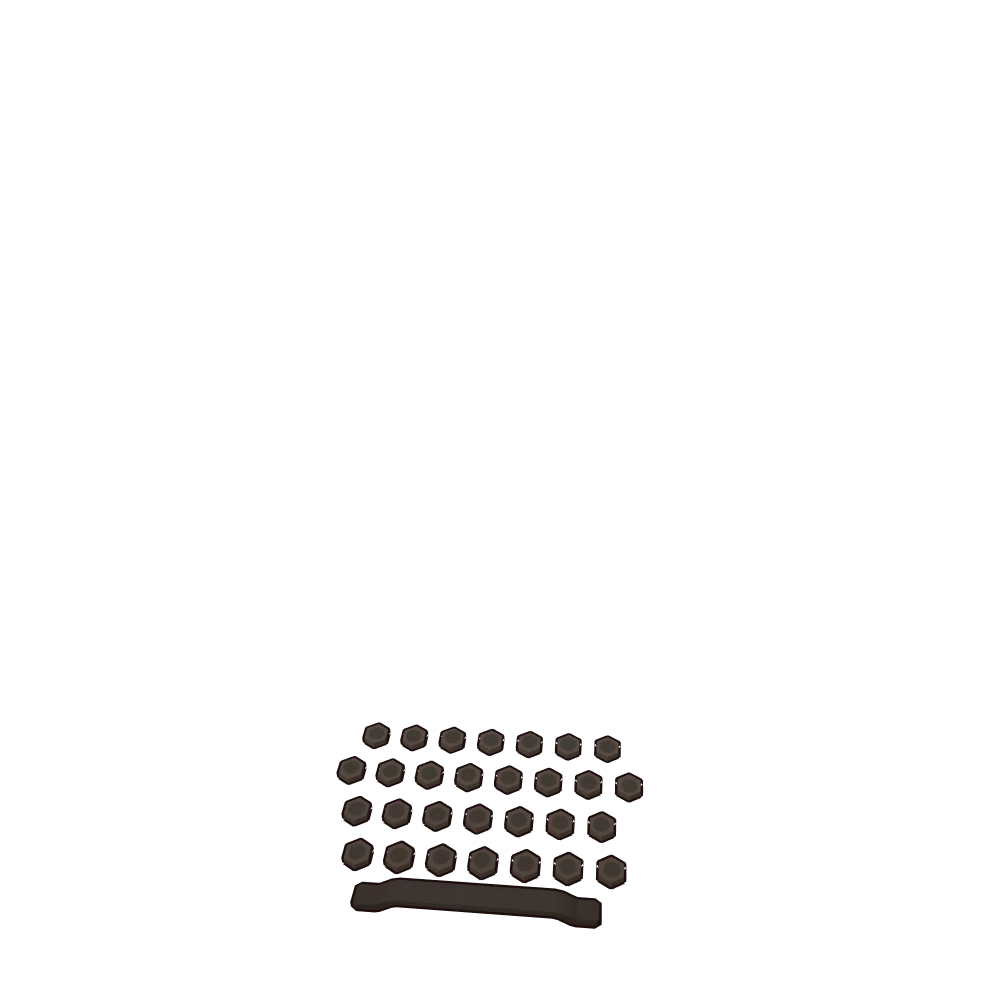
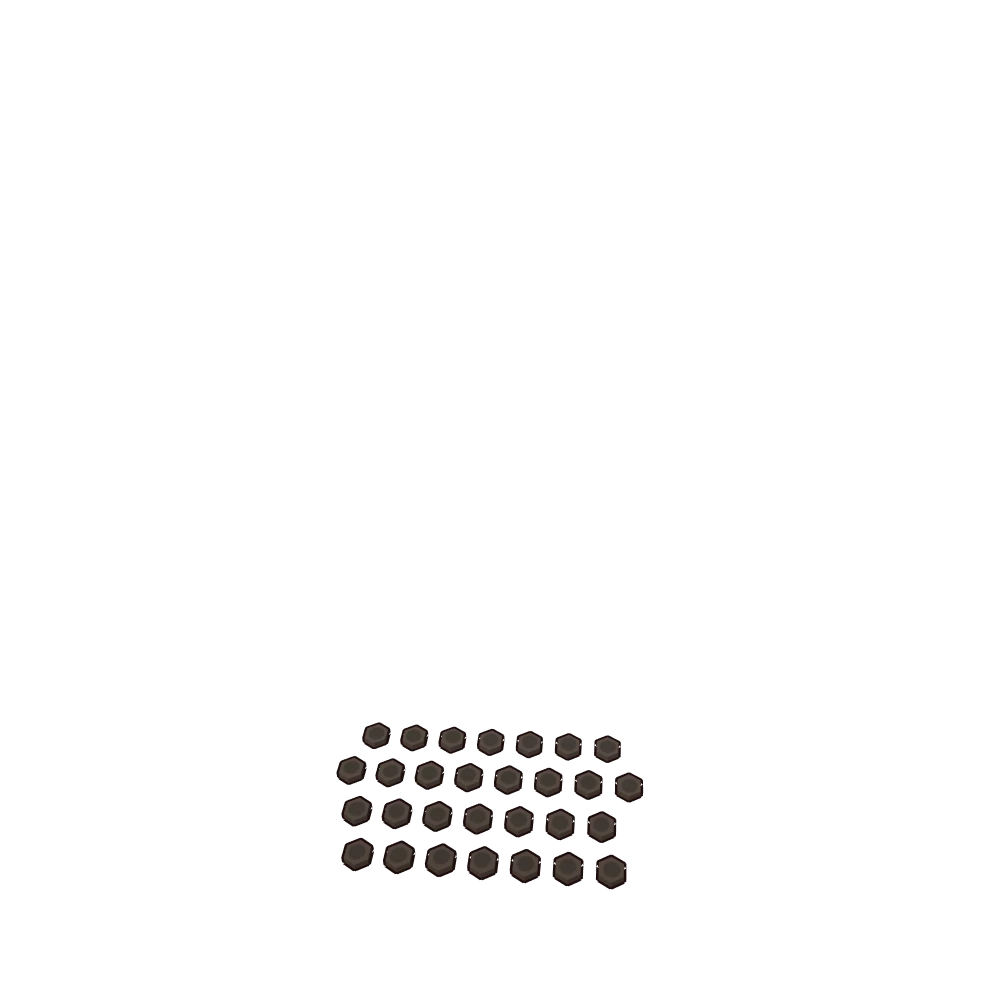
fix(viewer): the space bar no longer takes the caps over it down, and other news computer fixes
- The space bar is a layer of its own, drawn behind the caps. Its box
  takes in the bottoms of the caps over it, and in the one keys layer
  those went down with it.
- Only secret lines count as finds, six of them. A hero's name, help
  and what answers a click are not secrets, and are no longer counted.
- The small computer under the settings menu stays where it is while a
  search narrows the menu and shows its count.
- The book is under the tube's lines and static, as the rest of what the
  screen shows is, in the loader too.
- The count of finds stands on a patch of the screen's color, so it
  reads over an answer.

Changed region(s): [[0.341, 0.8815, 0.62, 0.9422]]

diff --git a/src/components/common/LoaderToy.tsx b/src/components/common/LoaderToy.tsx
@@ -4,10 +4,10 @@ import { Volume2, VolumeX, X } from 'lucide-react';
 import { getHeroChipIconPath } from '../../lib/lockerUtils';
 import type { ToySound } from '../../lib/loaderToySound';
 import { useAppStore } from '../../stores/appStore';
-import { CAP_CHARS, EGG, TOY_BLANK, TOY_FINDS, loaderToy, phraseListener, toyCap, toyChar, toyDemoLine, toyFind, toyFinds, toyLines, toyType, type ToyFind, type ToyScreen } from '../../lib/loaderToy';
+import { CAP_CHARS, EGG, TOY_BLANK, TOY_FINDS, loaderToy, phraseListener, toyCap, toyChar, toyDemoLine, toyFind, toyFinds, toyLines, toyType, type ToyScreen } from '../../lib/loaderToy';
 import { Modal } from './Modal';
 import { Book, Face, FanSpinner, Glyphs, LoaderScene, LoaderSteam, Typed } from './PreviewLoader';
-import { FAN, KEY_BOXES, LAYERS, PLANCHETTE, SCREEN, typingFor, type Typing } from './previewLoaderArt';
+import { FAN, KEY_BOXES, KEY_ORDER, LAYERS, PLANCHETTE, SCREEN, typingFor, type Typing } from './previewLoaderArt';
 import { IconButton } from './ui';
 
 // The news computer as a toy: the loader's scene (PreviewLoader.tsx) in a window of its own, where the
@@ -16,7 +16,7 @@ import { IconButton } from './ui';
 // the app's logo opens it, and so does typing one of the computer's phrases anywhere (LoaderToyHost).
 // Nothing says so. What draws people in is the computer itself: a small one sits in Settings and opens
 // this one (NewsComputerDoor), it shows off its parts as it opens, types the lines anybody may know
-// when asked or left alone, and keeps count on its screen of what has been found.
+// when asked or left alone, and keeps count on its screen of how many of its secret lines have been found.
 // Styles are under `.loader-toy` in index.css; what the keys and lines mean is in lib/loaderToy.ts.
 
 /** Milliseconds a cap stays down at the least, so a quick tap still shows. */
@@ -132,11 +132,10 @@ function LoaderToy({ line }: { line: string }) {
     return () => clearTimeout(timer);
   }, [typing]);
 
-  // What has been found, kept between openings. The screen shows the count. A line's find is read off
-  // the answer it put up, as the answer shows; a part's is told by its click.
+  // Which of its secret lines have been found, kept between openings. The screen shows the count. A
+  // find is read off the answer its line put up, as the answer shows.
   const [found, setFound] = useState(() => toyFinds(localStorage.getItem(FOUND_KEY)));
   const [foundBefore] = useState(found.length);
-  const find = useCallback((what: ToyFind) => setFound((now) => now.includes(what) ? now : [...now, what]), []);
   const answered = [toyFind(answer), screen.rgb ? 'gamer' as const : null].find((what) => what && !found.includes(what));
   if (answered) setFound([...found, answered]);
   useEffect(() => { localStorage.setItem(FOUND_KEY, JSON.stringify(found)); }, [found]);
@@ -433,27 +432,28 @@ function LoaderToy({ line }: { line: string }) {
             </>
           )}>
           {puffs.map((puff) => <LoaderSteam key={puff} className="loader-toy__puff" onAnimationEnd={() => setPuffs((all) => all.filter((other) => other !== puff))} />)}
-          <div className="loader-toy__hit loader-toy__hit--round loader-toy__hit--fan" onPointerDown={() => { kickFan(); find('fan'); }}
+          <div className="loader-toy__hit loader-toy__hit--round loader-toy__hit--fan" onPointerDown={kickFan}
             style={{ left: percent(FAN.left - FAN.width * 0.6), top: percent(FAN.top - FAN.width * 0.6), width: percent(FAN.width * 1.2), aspectRatio: 1 }} />
           <div className="loader-toy__hit loader-toy__hit--glass" onPointerDown={() => {
-              if (answer?.kind === 'egg') {
-                setStrikes((count) => count + 1);
-                find('knock');
-              } else {
+              if (answer?.kind === 'egg') setStrikes((count) => count + 1);
+              else {
                 sound.current?.tap();
                 jolt();
-                find('glass');
               }
             }}
             style={{ left: percent(SCREEN.left - SCREEN.width / 2), top: percent(SCREEN.top - SCREEN.width / SCREEN.aspect / 2), width: percent(SCREEN.width), aspectRatio: SCREEN.aspect }} />
           <div className="loader-toy__hit loader-toy__hit--mug" style={{ left: '6.5%', top: '62%', width: '18%', height: '18%' }}
-            onPointerDown={() => { puff(); find('mug'); }} />
-          {KEY_BOXES.map(([left, top, width, height], cap) => (
-            <div key={cap} className="loader-toy__hit" style={{ left: percent(left), top: percent(top), width: percent(width), height: percent(height) }}
-              onPointerDown={() => { press('pointer', cap); type({ char: CAP_CHARS[cap] }); find('key'); }}
-              onPointerUp={() => release('pointer')} onPointerEnter={() => setHovered(cap)}
-              onPointerLeave={() => { release('pointer'); setHovered((now) => now === cap ? null : now); }} />
-          ))}
+            onPointerDown={puff} />
+          {/* In the keys' own order, so that a cap is over the part of the space bar's box it stands in. */}
+          {KEY_ORDER.map((cap) => {
+            const [left, top, width, height] = KEY_BOXES[cap];
+            return (
+              <div key={cap} className="loader-toy__hit" style={{ left: percent(left), top: percent(top), width: percent(width), height: percent(height) }}
+                onPointerDown={() => { press('pointer', cap); type({ char: CAP_CHARS[cap] }); }}
+                onPointerUp={() => release('pointer')} onPointerEnter={() => setHovered(cap)}
+                onPointerLeave={() => { release('pointer'); setHovered((now) => now === cap ? null : now); }} />
+            );
+          })}
         </LoaderScene>
       </div>
       {audible && <IconButton icon={muted ? VolumeX : Volume2} size="sm" label={muted ? t('layout.newsComputerUnmute') : t('layout.newsComputerMute')}

diff --git a/src/components/common/PreviewLoader.tsx b/src/components/common/PreviewLoader.tsx
@@ -1,6 +1,6 @@
 import { useState, type CSSProperties, type ReactNode } from 'react';
 import { getHeroChipIconPath } from '../../lib/lockerUtils';
-import { BOOK, FAN, GLYPH_CELL, GLYPH_ROWS, KEY_BOXES, LAYERS, LOGO, MUG, PAGE_TOPS, SCREEN, glyphPath, nextPhrase, nextScreenProgram, typingOf, type ScreenProgram, type Typing } from './previewLoaderArt';
+import { BOOK, FAN, GLYPH_CELL, GLYPH_ROWS, KEY_BOXES, KEY_ORDER, LAYERS, LOGO, MUG, PAGE_TOPS, SCREEN, glyphPath, nextPhrase, nextScreenProgram, typingOf, type ScreenProgram, type Typing } from './previewLoaderArt';
 
 // The loading state of a 3D preview: the news computer from the game's hideout, whose case fan is a
 // spinning pentagram, with a mug of cocoa beside it. The scene is a render of Valve's models, baked into
@@ -36,9 +36,11 @@ const logoPart = (d: string) => (
 );
 
 /** The Grimoire logo as one loop (see BOOK): its leaves riffle from the right page to the left, then the
- *  whirlwind rises out of the book, spins and dies away. */
+ *  whirlwind rises out of the book, spins and dies away. Under the tube's lines and static, as all the
+ *  screen shows is. */
 export function Book() {
   return (
+    <>
     <div className="preview-loader__book">
       <style>{BOOK.css}</style>
       {logoPart(LOGO.book)}
@@ -46,6 +48,8 @@ export function Book() {
       {BOOK.leaves.map((animation, leaf) => <span key={leaf} style={BOOK.leafBox}><b style={{ animation }} /></span>)}
       <div className="preview-loader__whirl" style={{ animation: BOOK.whirl }}>{LOGO.whirl.map(logoPart)}</div>
     </div>
+    <div className="preview-loader__static"><i /></div>
+    </>
   );
 }
 
@@ -100,18 +104,23 @@ function Screen({ program, hero, typing, onNoFace }: { program: ScreenProgram; h
 }
 
 /** Every key, each a window on the keys layer over its own cap, so that one can dip without the rest,
- *  and on the screen's light on the keys, so that a cap takes its light down with it. */
+ *  and on the screen's light on the keys, so that a cap takes its light down with it. The space bar has
+ *  layers of its own and is drawn first: its box takes in the bottoms of the caps over it, which lie in
+ *  front of it and stay where they are when it goes down. */
 function Keys({ keyStyle }: { keyStyle?: (key: number) => CSSProperties | undefined }) {
   return (
     <div className="preview-loader__keys">
-      {KEY_BOXES.map(([left, top, width, height], key) => (
-        <i key={key} style={{ left: percent(left), top: percent(top), width: percent(width), height: percent(height), ...keyStyle?.(key) }}>
-          {[LAYERS.keys, LAYERS.keyLight].map((src) => (
-            <img key={src} src={src} alt="" draggable={false} className={src === LAYERS.keyLight ? 'preview-loader__keylight' : undefined}
-              style={{ width: percent(1 / width), height: percent(1 / height), transform: `translate(${percent(-left)}, ${percent(-top)})` }} />
-          ))}
-        </i>
-      ))}
+      {KEY_ORDER.map((key) => {
+        const [left, top, width, height] = KEY_BOXES[key], bar = key === KEY_BOXES.length - 1;
+        return (
+          <i key={key} style={{ left: percent(left), top: percent(top), width: percent(width), height: percent(height), ...keyStyle?.(key) }}>
+            {[bar ? LAYERS.spaceBar : LAYERS.keys, bar ? LAYERS.spaceBarLight : LAYERS.keyLight].map((src, light) => (
+              <img key={src} src={src} alt="" draggable={false} className={light ? 'preview-loader__keylight' : undefined}
+                style={{ width: percent(1 / width), height: percent(1 / height), transform: `translate(${percent(-left)}, ${percent(-top)})` }} />
+            ))}
+          </i>
+        );
+      })}
     </div>
   );
 }

diff --git a/src/components/settings/SettingsNav.tsx b/src/components/settings/SettingsNav.tsx
@@ -25,20 +25,35 @@ export interface SettingsNavGroup {
 
 interface SettingsNavProps {
   groups: SettingsNavGroup[];
+  /** The whole menu, when `groups` is a search's narrowing of it: the menu keeps the room all of it takes. */
+  fullGroups?: SettingsNavGroup[];
   active: string;
   onSelect: (id: string) => void;
   label: string;
   search?: ReactNode;
 }
 
-export default function SettingsNav({ groups, active, onSelect, label, search }: SettingsNavProps) {
+export default function SettingsNav({ groups, fullGroups, active, onSelect, label, search }: SettingsNavProps) {
   return (
     <nav
       aria-label={label}
       className="w-full shrink-0 md:sticky md:top-6 md:flex md:max-h-[calc(100vh-8.5rem)] md:w-56 md:flex-col md:self-start"
     >
       <div className="shrink-0">{search}</div>
-      <div className="shrink-0 space-y-5">
+      <div className="grid shrink-0">
+      {/* The whole menu, unseen, in the same place as the one shown: a search that narrows the menu
+          leaves what is under it (the computer) where it was. Only where that is shown. */}
+      {fullGroups && fullGroups !== groups && (
+        <div aria-hidden className="invisible hidden space-y-5 [grid-area:1/1] md:block">
+          {fullGroups.map((group) => (
+            <div key={group.id}>
+              <div className="mb-1.5 px-3 text-2xs font-medium uppercase tracking-wider">&nbsp;</div>
+              <div className="space-y-0.5">{group.items.map((item) => <div key={item.id} className="h-9" />)}</div>
+            </div>
+          ))}
+        </div>
+      )}
+      <div className="space-y-5 [grid-area:1/1]">
         {groups.map((group) => (
           <div key={group.id}>
             <h2 className="mb-1.5 px-3 text-2xs font-medium uppercase tracking-wider text-text-secondary/70">
@@ -80,11 +95,14 @@ export default function SettingsNav({ groups, active, onSelect, label, search }:
           </div>
         ))}
       </div>
+      </div>
       {/* Easter egg: the loader's computer, under the menu on every settings page. It opens the one that
           can be played with (LoaderToy). It takes the room the window leaves under the menu, up to its
           full size: in a short window it is smaller, then only its fan, then not there. Not shown where
-          the menu sits above the page, on a narrow window. */}
-      <div className="relative mt-6 hidden min-h-0 w-full flex-[0_1_14rem] md:block"><NewsComputerDoor /></div>
+          the menu sits above the page, on a narrow window. A search puts a line of its own under the
+          search field (SettingsSearch: its count, as tall as the space over the computer), which the
+          computer gives up its space to, so that it does not move. */}
+      <div className={`relative hidden min-h-0 w-full flex-[0_1_14rem] md:block ${fullGroups && fullGroups !== groups ? '' : 'mt-6'}`}><NewsComputerDoor /></div>
     </nav>
   );
 }

diff --git a/src/components/common/previewLoaderArt.ts b/src/components/common/previewLoaderArt.ts
@@ -7,10 +7,13 @@ export const LAYERS = {
   back: new URL('../../assets/preview-loader/news-computer-back.webp', import.meta.url).href,
   /** What the screen alone lights, to flicker over the scene. Rendered without the keys: it lights what is under them. */
   screenLight: new URL('../../assets/preview-loader/news-computer-screenlight.webp', import.meta.url).href,
-  /** The screen's light on the keys alone, which goes down with each one. */
+  /** The screen's light on the caps alone, and on the space bar alone, which goes down with each one. */
   keyLight: new URL('../../assets/preview-loader/news-computer-keylight.webp', import.meta.url).href,
-  /** The keyboard's caps and space bar, which press as the screen's phrase is typed. */
+  spaceBarLight: new URL('../../assets/preview-loader/news-computer-spacebarlight.webp', import.meta.url).href,
+  /** The keyboard's caps, which press as the screen's phrase is typed. */
   keys: new URL('../../assets/preview-loader/news-computer-keys.webp', import.meta.url).href,
+  /** Its space bar, a layer of its own: its box takes in the bottoms of the caps over it, which do not go down with it. */
+  spaceBar: new URL('../../assets/preview-loader/news-computer-spacebar.webp', import.meta.url).href,
   /** The planchette, the computer's mouse, which wanders once a load runs long. */
   planchette: new URL('../../assets/preview-loader/news-computer-planchette.webp', import.meta.url).href,
   /** What the scene emits, blurred: the chamber, the screen and the candle. */
@@ -37,6 +40,8 @@ const KEY_ROWS: number[][][] = [
 const SPACE_BAR = [0.3487, 0.8871, 0.2546, 0.0553];
 /** Every key's box: the caps row by row, and the space bar last. */
 export const KEY_BOXES: number[][] = [...KEY_ROWS.flat(), SPACE_BAR];
+/** The keys from the back of the picture to the front: the space bar lies behind the bottoms of the caps over it. */
+export const KEY_ORDER: readonly number[] = [KEY_BOXES.length - 1, ...KEY_ROWS.flat().map((_, key) => key)];
 /** How many caps each row has, from the back one. */
 export const KEY_ROW_SIZES: readonly number[] = KEY_ROWS.map((row) => row.length);
 

diff --git a/src/lib/loaderToy.test.ts b/src/lib/loaderToy.test.ts
@@ -216,24 +216,28 @@ describe('what the computer types by itself', () => {
 describe('finds', () => {
   const answerTo = (line: string) => toyType(typed(line), 'enter').answer;
 
-  it('counts each line that does something, once it has', () => {
+  it('counts each secret line, once it has answered', () => {
     expect(toyFind(answerTo('nerf bebop'))).toBe('nerf bebop');
-    expect(toyFind(answerTo('lash'))).toBe('hero');
     expect(toyFind(answerTo('door stuck'))).toBe('door stuck');
     expect(toyFind(answerTo('grimoire is awesome'))).toBe('grimoire is awesome');
     expect(toyFind(answerTo('book'))).toBe('book');
     expect(toyFind(answerTo('yoshi'))).toBe('yoshi');
-    expect(toyFind(answerTo('help'))).toBe('help');
+    // Every secret is a line the computer knows, and gamer is one of them (it lights up, with no answer).
+    for (const find of TOY_FINDS) expect(toyCommand(find)).not.toBeNull();
+    expect(TOY_FINDS).toContain('gamer');
   });
 
-  it('counts nothing for a line it does not know, an empty screen, or lines it typed unasked', () => {
+  it('counts nothing for a hero, for help, for a line it does not know or for an empty screen', () => {
+    expect(toyFind(answerTo('lash'))).toBeNull();
+    expect(toyFind(answerTo('help'))).toBeNull();
     expect(toyFind(answerTo('sudo'))).toBeNull();
     expect(toyFind(null)).toBeNull();
     expect(toyFind({ kind: 'phrases', asked: false })).toBeNull();
   });
 
   it('reads back only finds there are, each once, whatever was kept', () => {
-    expect(toyFinds(JSON.stringify(['mug', 'fan', 'mug', 'nonsense', 3]))).toEqual(['fan', 'mug']);
+    // What an earlier build counted (a hero, help, clicks) is dropped.
+    expect(toyFinds(JSON.stringify(['yoshi', 'book', 'yoshi', 'fan', 'hero', 'help', 'nonsense', 3]))).toEqual(['book', 'yoshi']);
     for (const kept of [null, '', 'not json', '{"a":1}', '7']) expect(toyFinds(kept)).toEqual([]);
     expect(toyFinds(JSON.stringify(TOY_FINDS))).toEqual([...TOY_FINDS]);
     expect(new Set(TOY_FINDS).size).toBe(TOY_FINDS.length);

diff --git a/src/lib/loaderToy.ts b/src/lib/loaderToy.ts
@@ -206,17 +206,18 @@ export function toyDemoLine(turn: number): string {
   return [PHRASES[0], hero, PHRASES[2], 'book', PHRASES[1]][((turn % 5) + 5) % 5];
 }
 
-// What there is to find on the computer: lines that do something, and parts that answer a click. The
-// screen keeps count (so many of so many), which is the whole of its hint that there is more.
-export const TOY_FINDS = ['nerf bebop', 'door stuck', 'grimoire is awesome', 'hero', 'book', 'help', 'gamer', 'yoshi', 'fan', 'mug', 'glass', 'key', 'knock'] as const;
+// What there is to find on the computer: its secret lines, the words that do something when typed. A
+// hero's name is no secret, nor is `help`, and what answers a click (the fan, the mug, the glass, the egg)
+// is play, not a find. The screen keeps count (so many of so many), which is the whole of its hint that
+// there is more.
+export const TOY_FINDS = ['nerf bebop', 'door stuck', 'grimoire is awesome', 'book', 'gamer', 'yoshi'] as const;
 export type ToyFind = typeof TOY_FINDS[number];
 
 /** What the answer on the screen counts as having found, if anything. */
 export function toyFind(answer: ToyScreen['answer']): ToyFind | null {
   switch (answer?.kind) {
-    case 'hero': return answer.storm ? 'nerf bebop' : 'hero';
+    case 'hero': return answer.storm ? 'nerf bebop' : null;
     case 'book': return answer.mood === 'stuck' ? 'door stuck' : answer.mood === 'awesome' ? 'grimoire is awesome' : 'book';
-    case 'phrases': return answer.asked ? 'help' : null;
     case 'egg': return 'yoshi';
     default: return null;
   }

diff --git a/src/index.css b/src/index.css
@@ -2024,7 +2024,7 @@ body {
 .loader-toy__tally {
   position: absolute;
   right: 0;
-  bottom: 7%;
+  bottom: 5%;
   left: 0;
   display: flex;
   justify-content: center;
@@ -2032,10 +2032,15 @@ body {
   transition: opacity 300ms;
 }
 
+/* On a patch of the screen's own color, so that it reads over whatever the answer has drawn there. */
 .loader-toy__tally > svg {
   display: block;
+  box-sizing: content-box;
   width: auto;
   height: calc(var(--loader-width) * 0.0115);
+  padding: calc(var(--loader-width) * 0.003) calc(var(--loader-width) * 0.006);
+  border-radius: calc(var(--loader-width) * 0.004);
+  background: color-mix(in srgb, var(--loader-phosphor) 88%, transparent);
   fill: var(--loader-ink);
 }
 

diff --git a/src/pages/Settings.tsx b/src/pages/Settings.tsx
@@ -153,6 +153,7 @@ export default function Settings() {
       <div className="flex flex-col gap-6 md:flex-row md:gap-8">
         <SettingsNav
           groups={filteredGroups}
+          fullGroups={navGroups}
           active={displayedSection}
           onSelect={(id) => navigate(`/settings/${id}`, { replace: true })}
           label={t('settings.nav.label')}
